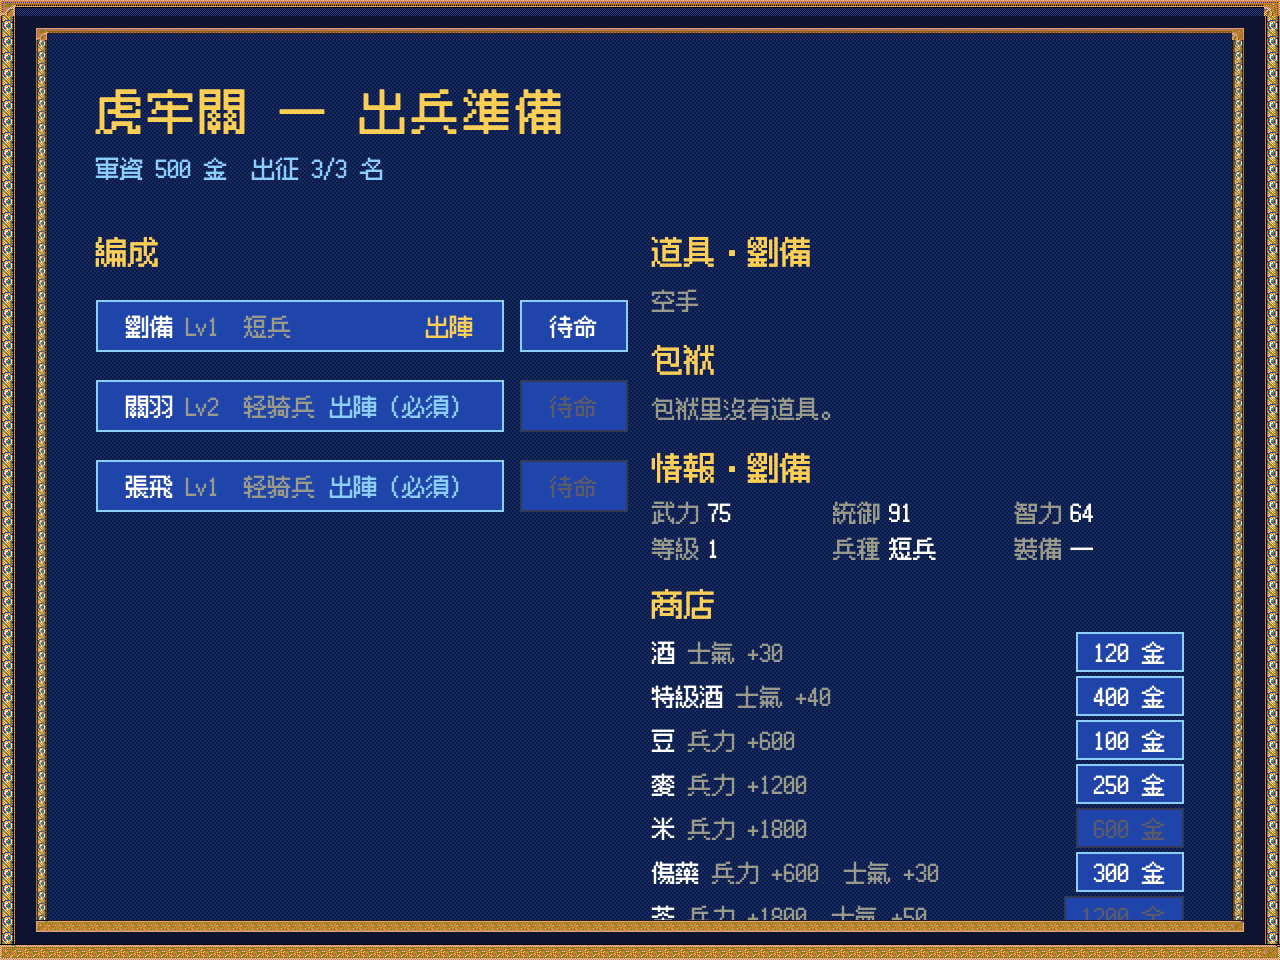
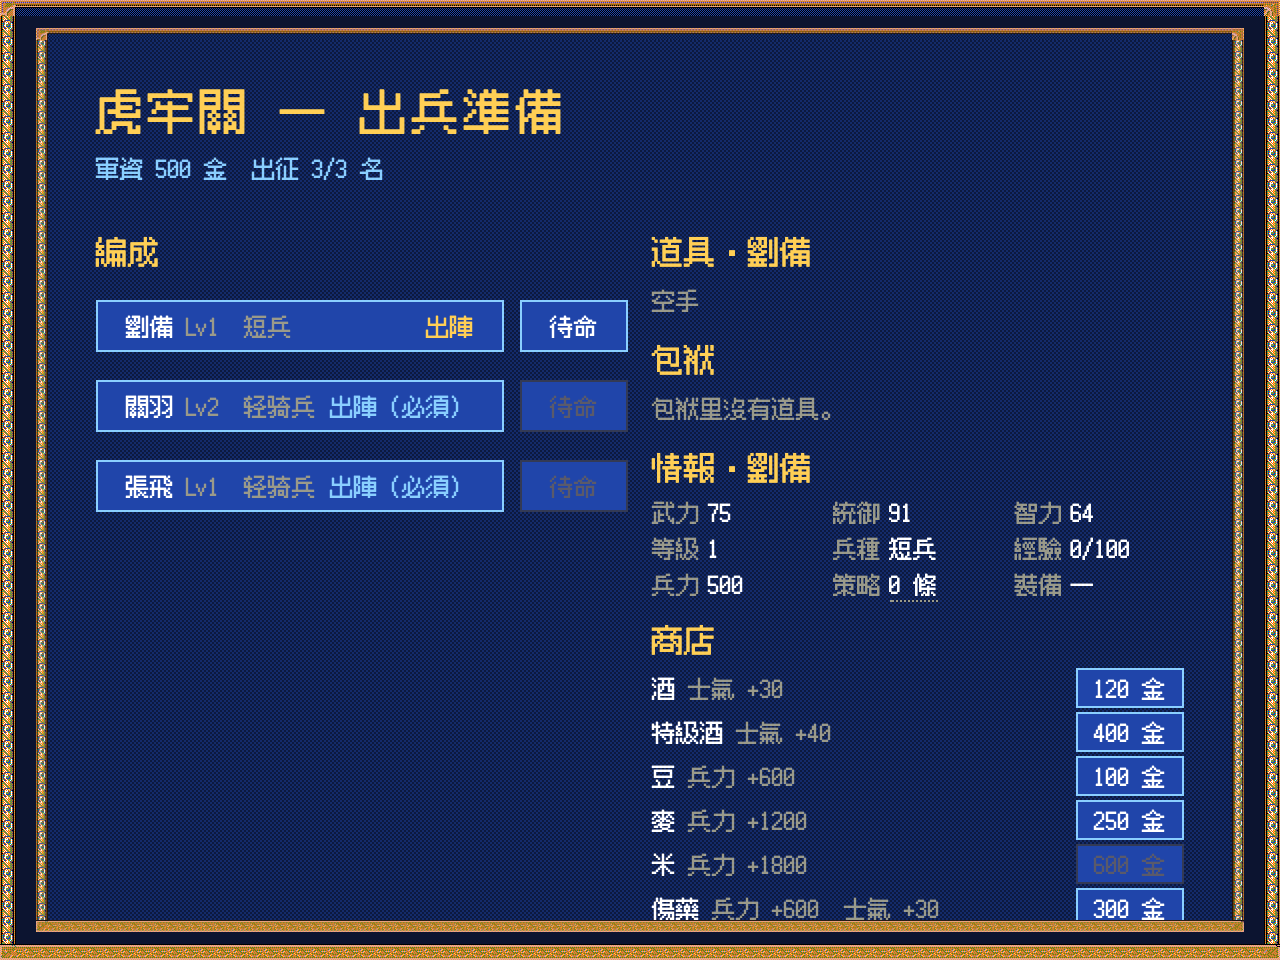
feat: 营地情报栏补上经验、满编兵力和策略条数
原来只有武力 / 统御 / 智力 / 等级 / 兵种 / 装备，看不出这名武将离下一级还有多远、
满编多少兵、会几条策略。现在补上：等级旁边是 `經驗 34/100`，下面是 `兵力 500`
（按兵种与等级算的满编值），以及 `策略 N 條`（悬停列出全部策略名）。

`knownStrategies()` 的参数从 `Unit` 放宽成 `Pick<Unit, 'cls' | 'level'>`，
营地没有战场部队对象也能查；规则层行为不变。e2e 的营地一项加了对应断言。

diff --git a/src/main.ts b/src/main.ts
@@ -611,15 +611,19 @@ function camp(step: Extract<Shown, { t: 'camp' }>) {
       return `<span class="held" title="${esc(itemEffect(id))}"><button class="btn item" data-drop="${i}">${esc(itemName(id))}</button>${up}</span>`;
     }).join('');
   };
-  /** 武將情報：能力、兵种、随身道具的一行摘要。 */
+  /** 武將情報：能力、兵种、随身道具与已学会的策略。 */
   const info = () => {
     const o = officers[pick];
     if (!o) return '';
     const r = rosterOf(pick);
+    const cls = clsOf(pick);
     const equips = r.items.filter(isEquipment).map(itemName);
+    const strs = knownStrategies({ cls, level: r.level });
     return `<h2>情報・${esc(o.name)}</h2><div class="info"><div><span>武力</span>${o.str}</div>` +
       `<div><span>統御</span>${o.lead}</div><div><span>智力</span>${o.int}</div>` +
-      `<div><span>等級</span>${r.level}</div><div><span>兵種</span>${esc(TB.classNames[clsOf(pick)])}</div>` +
+      `<div><span>等級</span>${r.level}</div><div><span>兵種</span>${esc(TB.classNames[cls])}</div>` +
+      `<div><span>經驗</span>${r.exp}/100</div><div><span>兵力</span>${maxHp(cls, r.level)}</div>` +
+      `<div><span>策略</span><i title="${esc(strs.map(strategyName).join('、'))}">${strs.length} 條</i></div>` +
       `<div><span>裝備</span>${equips.length ? esc(equips.join('、')) : '—'}</div></div>`;
   };
   const shop = step.shop.map((id) => `<div class="buy"><span>${esc(itemName(id))}<em>${esc(itemEffect(id))}</em></span>` +

diff --git a/src/rules/core.ts b/src/rules/core.ts
@@ -93,8 +93,8 @@ export function attackTargets(b: Battle, u: Unit, x = u.x, y = u.y): Unit[] {
   return out;
 }
 
-/** 该部队当前等级已学会的策略 ID（升序）。 */
-export function knownStrategies(u: Unit): number[] {
+/** 该部队当前等级已学会的策略 ID（升序）。只看兵种与等级，营地查资料也能用。 */
+export function knownStrategies(u: Pick<Unit, 'cls' | 'level'>): number[] {
   const out: number[] = [];
   for (let id = 0; id < 36; id++) {
     if (TB.strategyLevel[id][u.cls] <= u.level) out.push(id); // 255 = 学不会

diff --git a/src/style.css b/src/style.css
@@ -203,6 +203,7 @@ img { image-rendering: pixelated; }
 .camp .need { color: var(--dim); }
 .camp .info { display: grid; grid-template-columns: repeat(3, 1fr); gap: 2px 6px; }
 .camp .info span { color: var(--dim); margin-right: 4px; }
+.camp .info i { font-style: normal; border-bottom: 1px dotted var(--dim); cursor: help; }
 .camp .buy { display: flex; justify-content: space-between; align-items: center; margin: 2px 0; }
 .camp .buy em { font-style: normal; color: var(--dim); margin-left: 6px; }
 .camp .buy .btn { width: auto; padding: 1px 8px; }
